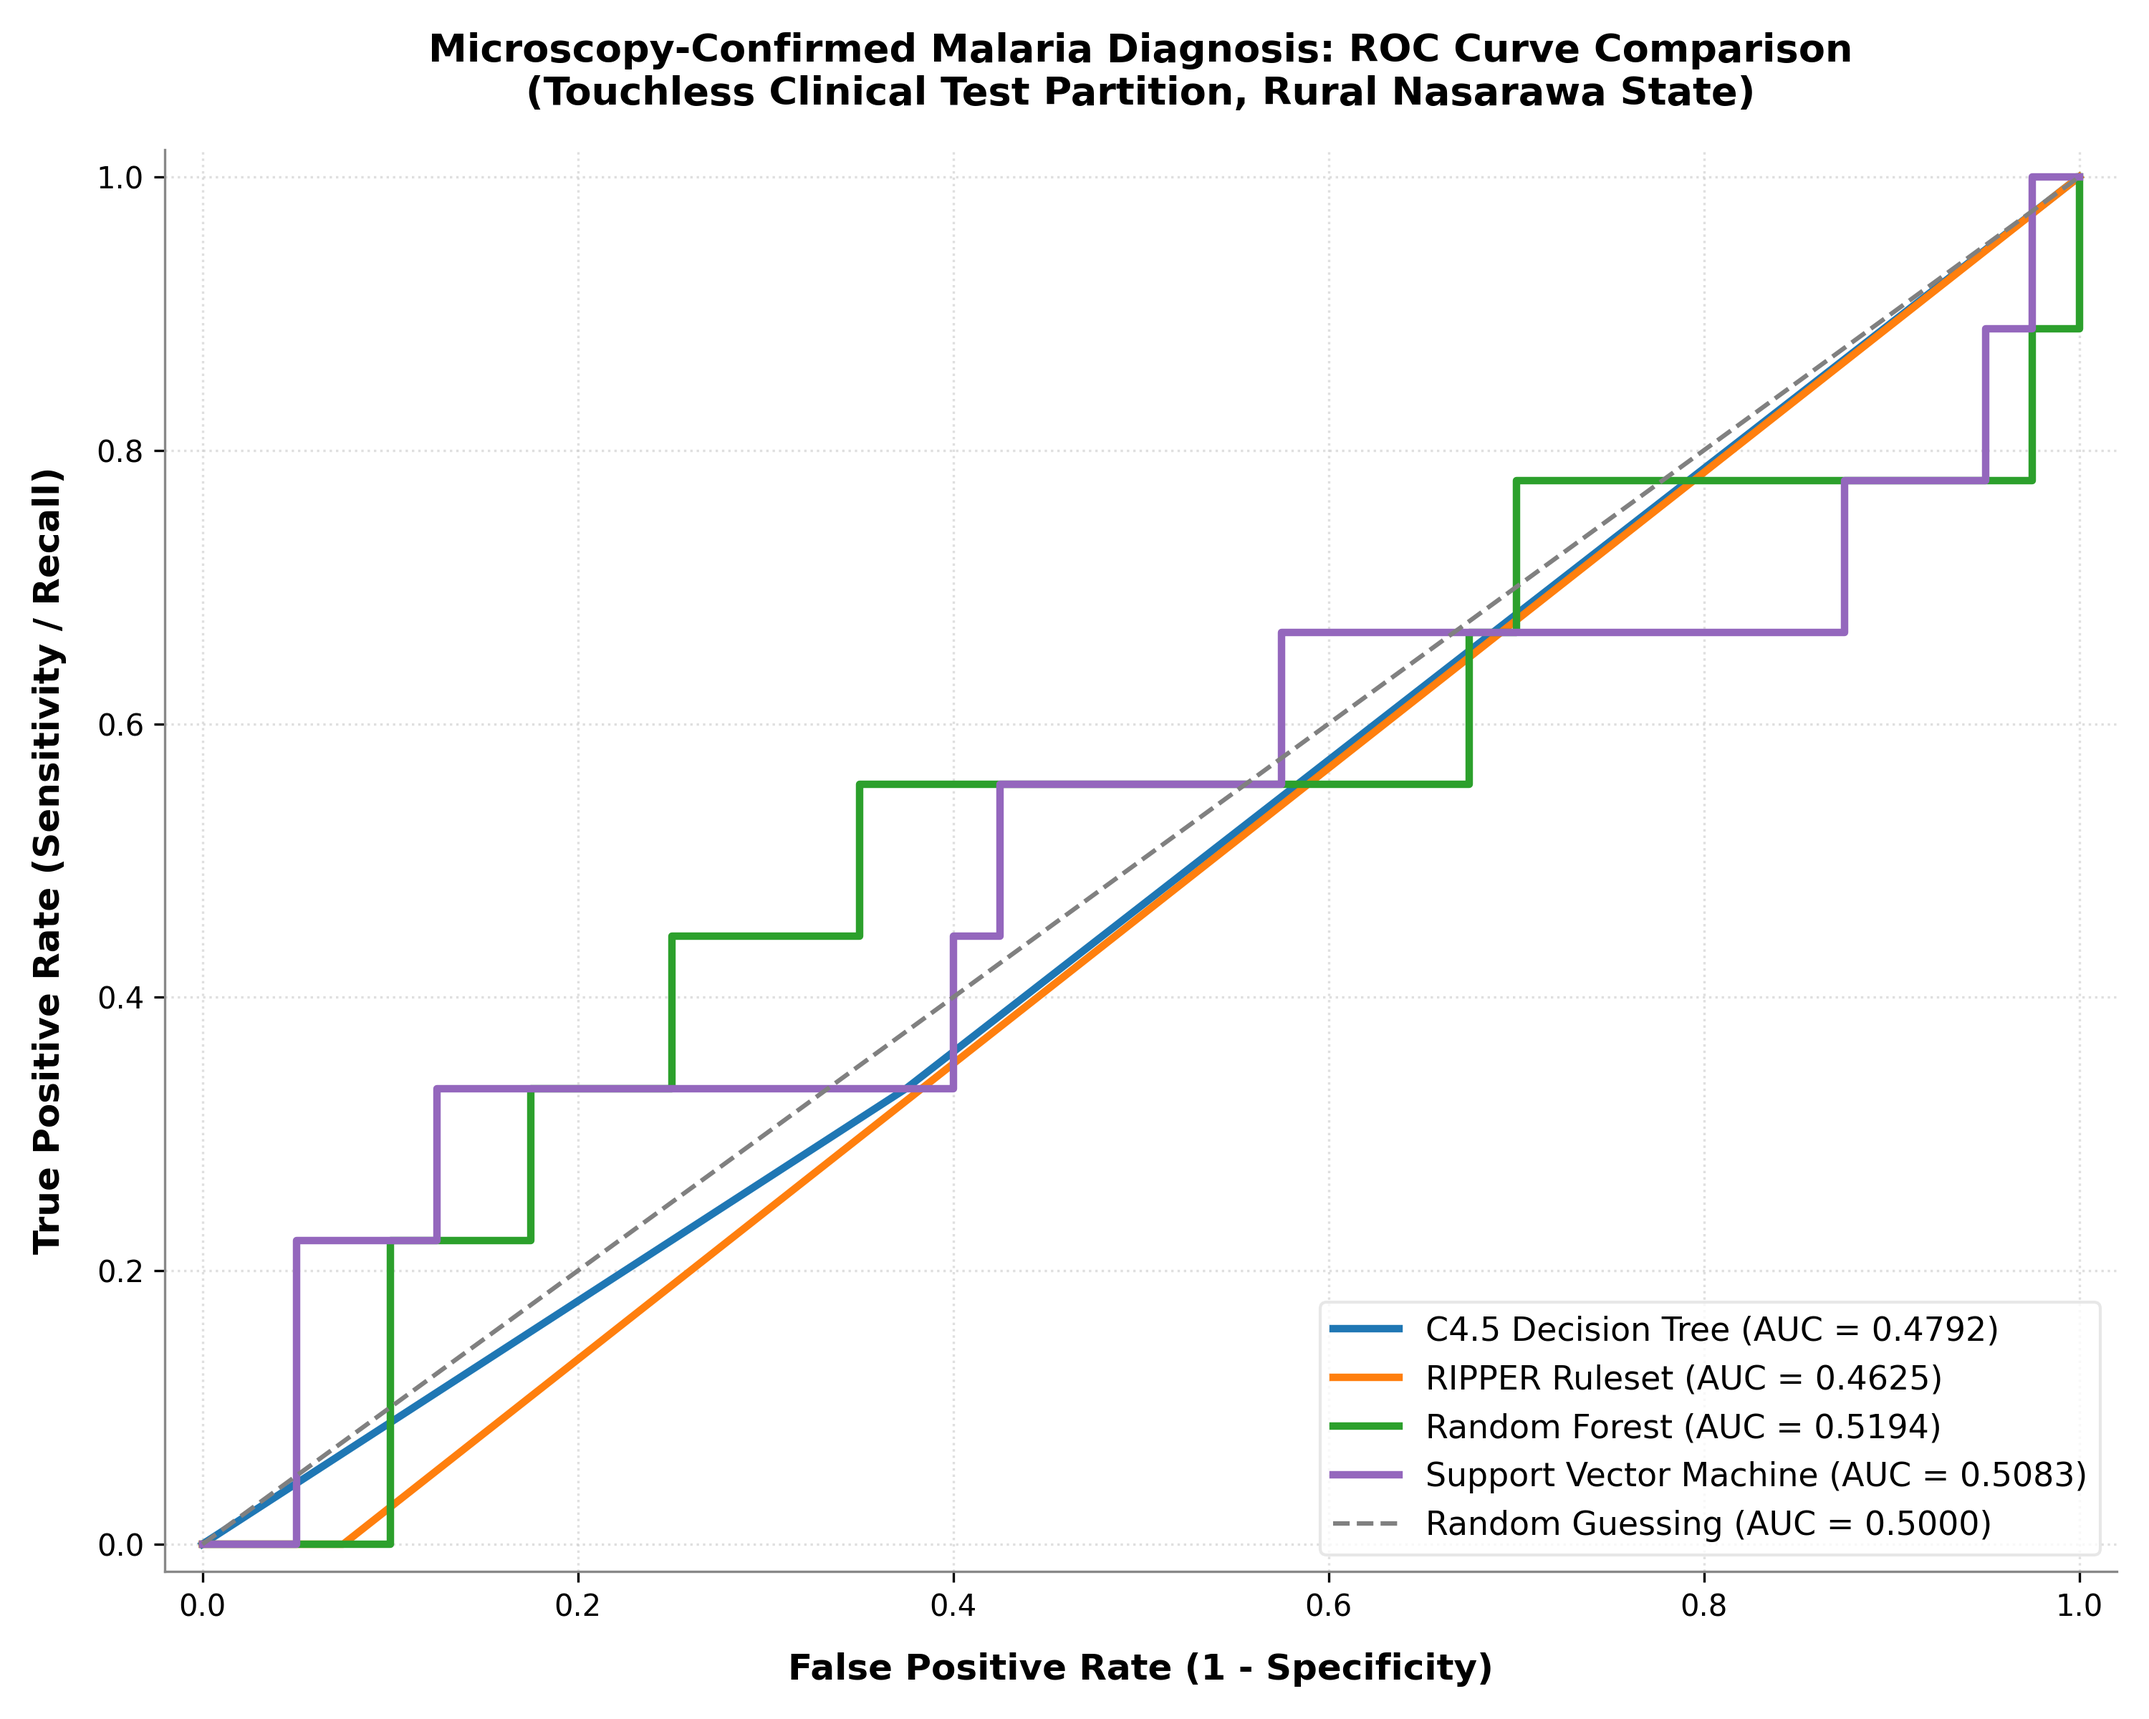
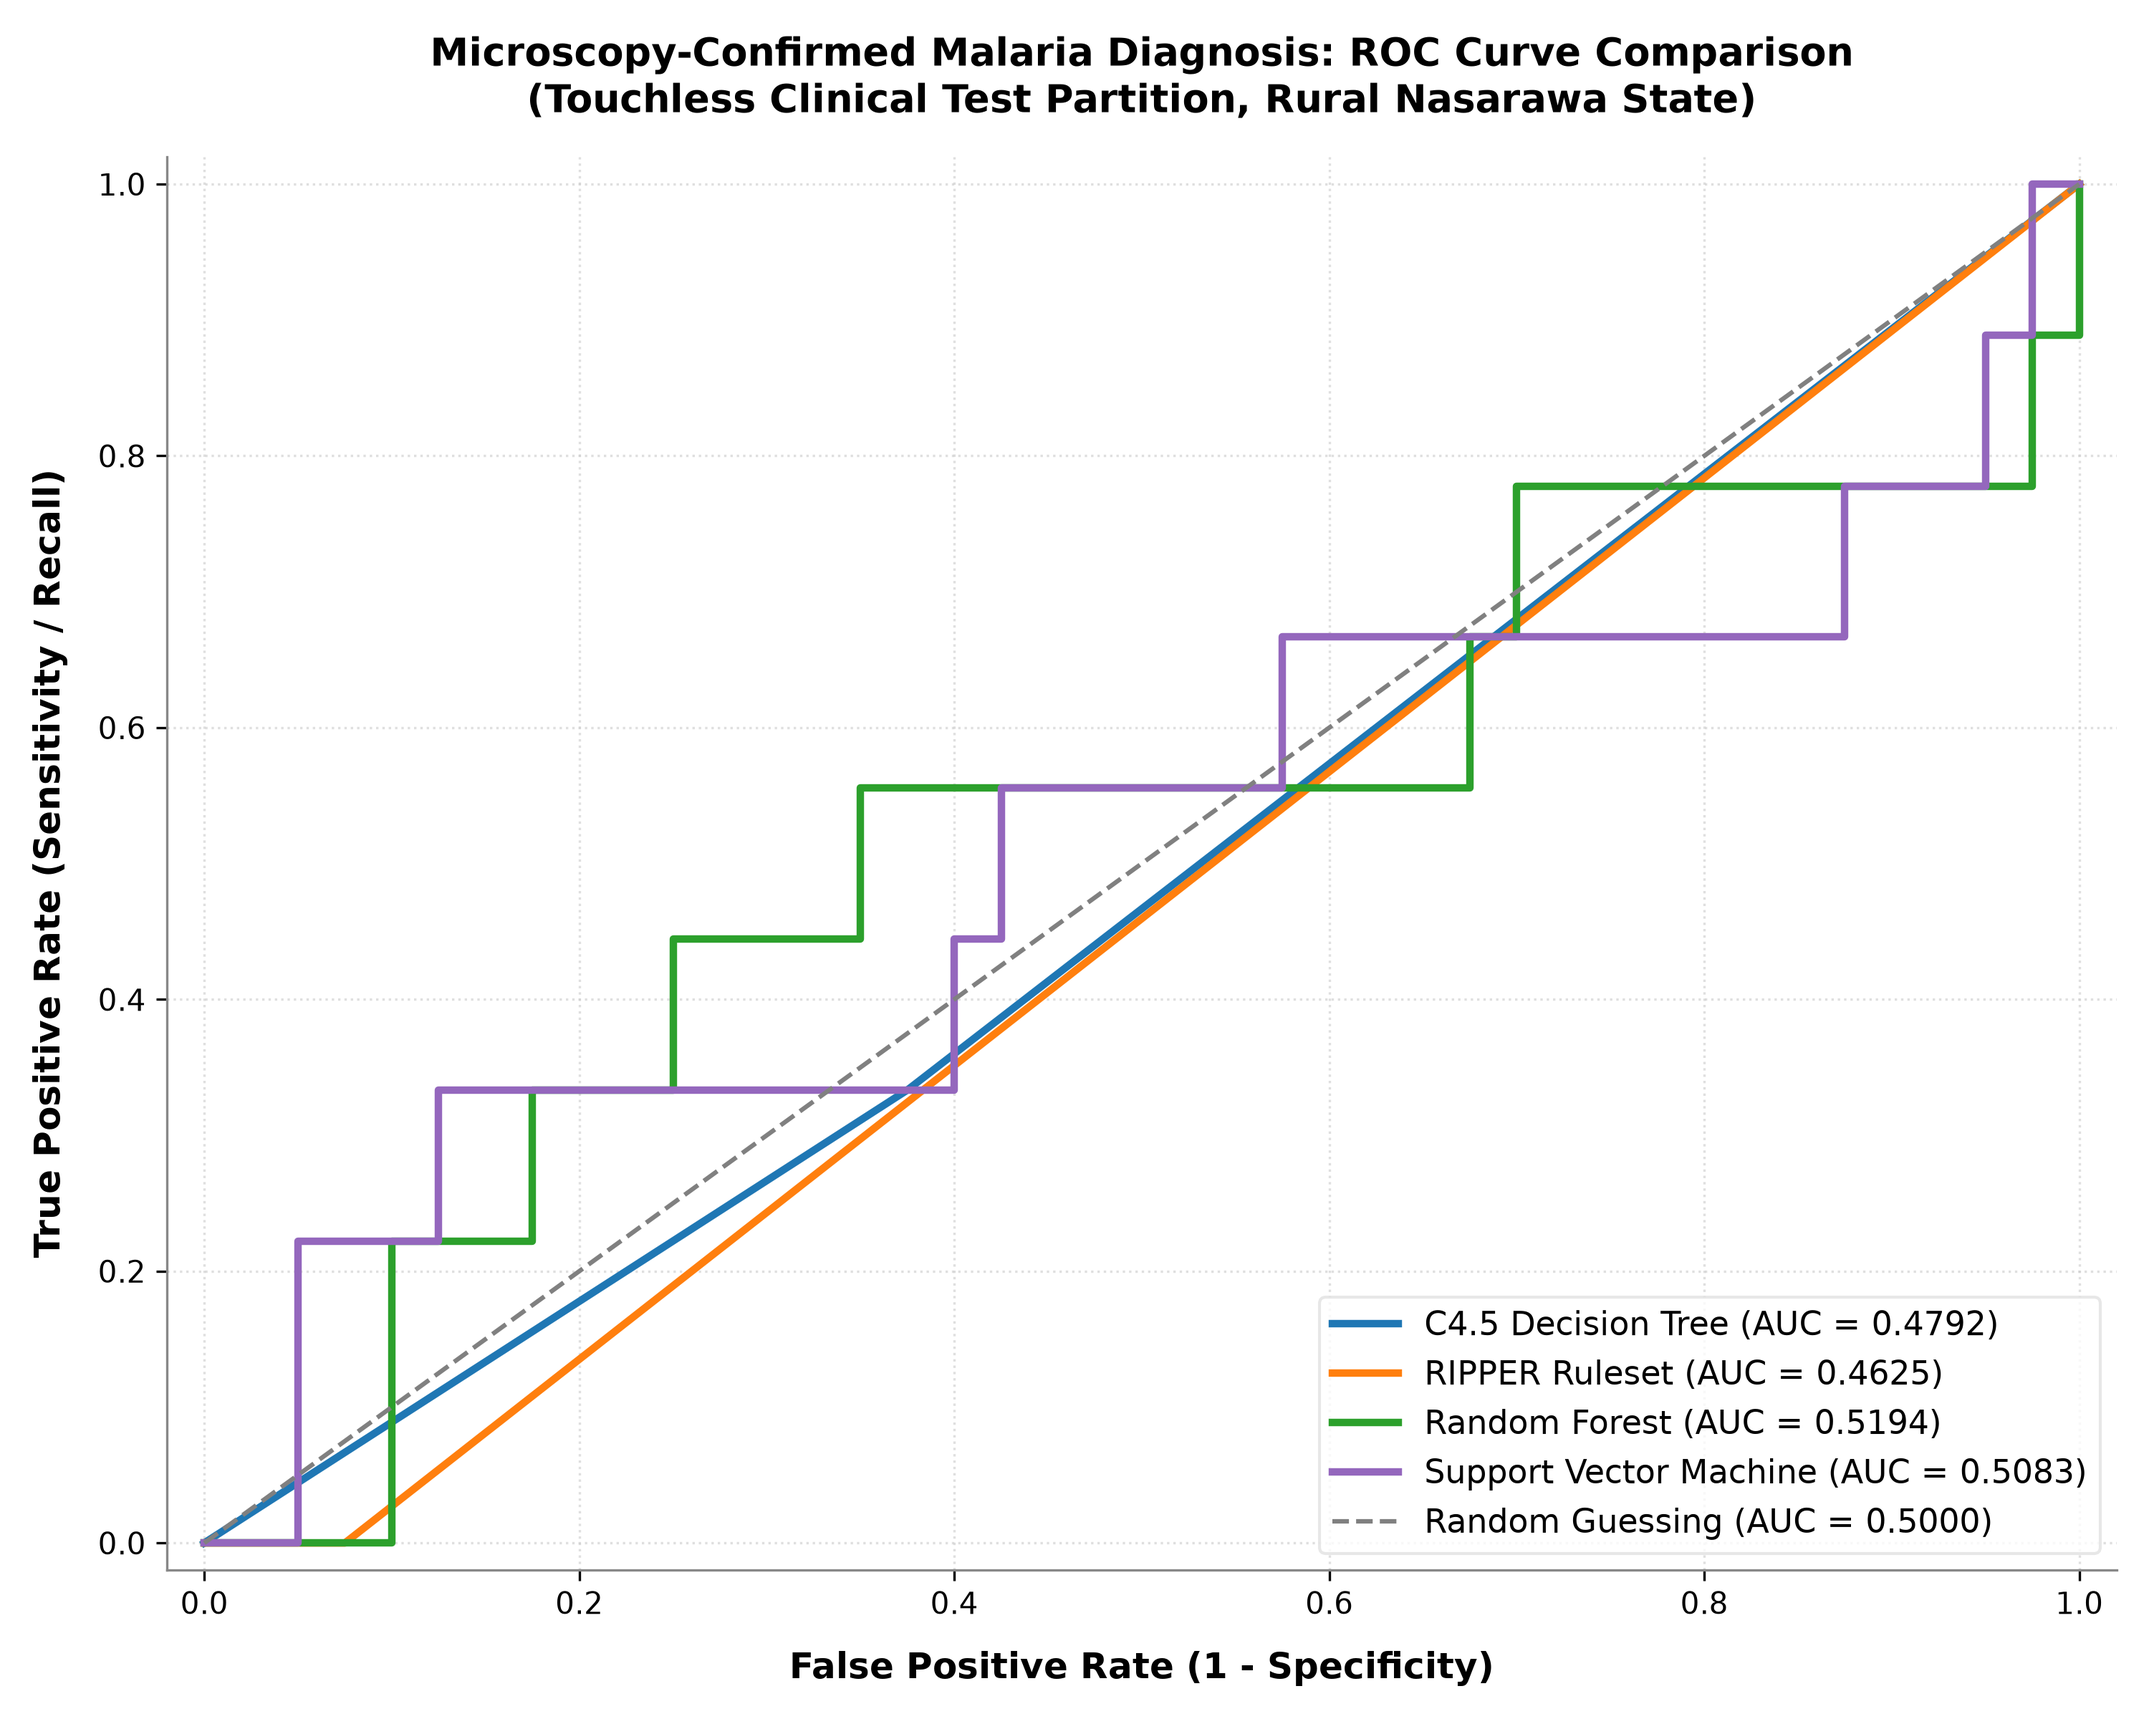
Add final graphical outputs, implementation plan, and walkthrough for graphics generation

diff --git a/sixth_step.py b/sixth_step.py
@@ -363,6 +363,107 @@ for row in tradeoff_rows:
     print(f"{row[0]:<25} | {row[1]:<28} | {acc_str:<8} | {f1_str:<8} | {sens_str:<11} | {str(row[5]):<11} | {str(row[6]):<12}")
 print("="*95)
 
+# ------------------------------------------------------------------------------
+# 8. GENERATE ADDITIONAL GRAPHICAL OUTPUTS
+# ------------------------------------------------------------------------------
+print("\n[8] Generating remaining evaluation plots...")
+try:
+    # 8A. Model Performance Comparison Grouped Bar Chart
+    models = [res['Name'] for res in results]
+    metrics = ['Accuracy', 'Precision', 'Sensitivity (Recall)', 'Specificity', 'Macro F1']
+    metric_labels = ['Accuracy', 'Precision', 'Sensitivity', 'Specificity', 'Macro F1']
+    
+    x = np.arange(len(models))
+    width = 0.15
+    
+    plt.figure(figsize=(12, 7), dpi=300)
+    for idx, metric in enumerate(metrics):
+        values = [res[metric] for res in results]
+        plt.bar(x + idx * width - (len(metrics) - 1) * width / 2, values, width, label=metric_labels[idx])
+        
+    plt.title("Model Performance Comparison (Clinical Test Partition)", fontsize=14, fontweight='bold', pad=15)
+    plt.xticks(x, models, fontsize=10)
+    plt.ylabel("Score", fontsize=11, fontweight='bold')
+    plt.ylim(0, 1.1)
+    plt.legend(loc='lower left', frameon=True, facecolor='white', edgecolor='#e2e2e2')
+    plt.grid(True, linestyle=':', alpha=0.6, color='#cbcbcb', axis='y')
+    
+    ax = plt.gca()
+    ax.spines['top'].set_visible(False)
+    ax.spines['right'].set_visible(False)
+    ax.spines['left'].set_color('#888888')
+    ax.spines['bottom'].set_color('#888888')
+    
+    perf_plot_path = os.path.join("outputs", "plots", "model_performance_comparison.png")
+    plt.tight_layout()
+    plt.savefig(perf_plot_path, dpi=300)
+    plt.close()
+    print(f" - Model performance comparison plot exported to: {perf_plot_path}")
+    
+    # 8B. Confusion Matrix Heatmaps
+    fig, axes = plt.subplots(2, 2, figsize=(10, 10), dpi=300)
+    axes = axes.flatten()
+    for idx, res in enumerate(results):
+        ax = axes[idx]
+        cm = res['CM']
+        cax = ax.matshow(cm, cmap='Blues', alpha=0.6)
+        for (i, j), val in np.ndenumerate(cm):
+            ax.text(j, i, f'{val}', ha='center', va='center', fontsize=16, fontweight='bold')
+            
+        ax.set_title(res['Name'], fontsize=12, fontweight='bold', pad=10)
+        ax.set_xticks([0, 1])
+        ax.set_xticklabels(['Negative', 'Positive'], fontsize=10)
+        ax.set_yticks([0, 1])
+        ax.set_yticklabels(['Negative', 'Positive'], fontsize=10)
+        ax.tick_params(axis="both", which="both", bottom=True, top=False, labelbottom=True, labeltop=False)
+        ax.set_xlabel('Predicted Label', fontsize=10)
+        ax.set_ylabel('True Label', fontsize=10)
+        
+    plt.suptitle("Confusion Matrix Heatmaps (Clinical Test Partition)", fontsize=15, fontweight='bold', y=0.98)
+    plt.tight_layout()
+    cm_plot_path = os.path.join("outputs", "plots", "confusion_matrices.png")
+    plt.savefig(cm_plot_path, dpi=300)
+    plt.close()
+    print(f" - Confusion matrices heatmap plot exported to: {cm_plot_path}")
+    
+    # 8C. Accuracy-vs-Interpretability Scatter Plot
+    model_names = [row[0] for row in tradeoff_rows]
+    f1_scores = [row[3] for row in tradeoff_rows]
+    complexities = [46, 2, 300, 350]  # Rules counts/size proxies for plotting
+    complexity_labels = ['46 Rules\n(C4.5 Tree)', '2 Rules\n(RIPPER Ruleset)', '300 Trees\n(Random Forest)', 'Kernel Space\n(SVM)']
+    colors = ['#1f77b4', '#ff7f0e', '#2ca02c', '#9467bd']
+    
+    plt.figure(figsize=(10, 6), dpi=300)
+    for i in range(len(model_names)):
+        plt.scatter(complexities[i], f1_scores[i], color=colors[i], s=180, zorder=5, label=model_names[i])
+        plt.annotate(complexity_labels[i], (complexities[i], f1_scores[i]), 
+                     textcoords="offset points", xytext=(0,10), ha='center', fontsize=9, fontweight='semibold')
+                     
+    plt.title("Accuracy-versus-Interpretability Trade-off Frontier", fontsize=13, fontweight='bold', pad=15)
+    plt.xlabel("Model Complexity / Feature Space (Size Proxy)", fontsize=11, fontweight='bold')
+    plt.ylabel("Macro F1-score", fontsize=11, fontweight='bold')
+    plt.xlim(-30, 420)
+    plt.ylim(min(f1_scores) - 0.05, max(f1_scores) + 0.08)
+    plt.grid(True, linestyle=':', alpha=0.6, color='#cbcbcb')
+    
+    ax = plt.gca()
+    ax.spines['top'].set_visible(False)
+    ax.spines['right'].set_visible(False)
+    ax.spines['left'].set_color('#888888')
+    ax.spines['bottom'].set_color('#888888')
+    
+    tradeoff_plot_path = os.path.join("outputs", "plots", "interpretability_vs_accuracy.png")
+    plt.tight_layout()
+    plt.savefig(tradeoff_plot_path, dpi=300)
+    plt.close()
+    print(f" - Interpretability vs accuracy trade-off plot exported to: {tradeoff_plot_path}")
+    
+except Exception as e:
+    print(f"Error generating additional graphical outputs: {e}")
+    import traceback
+    traceback.print_exc()
+
 print("\n" + "="*80)
 print("STAGE 8 CLINICAL TESTING AND PROFILING SUCCESSFULLY COMPLETED")
 print("="*80)
+

diff --git a/second_step.py b/second_step.py
@@ -168,3 +168,72 @@ print("\n" + "="*80)
 print("STEP 2 DIAGNOSTICS COMPLETE. All baseline characteristics and complex survey design")
 print("weighted statistics successfully mapped.")
 print("="*80)
+
+# ------------------------------------------------------------------------------
+# DELIVERABLE 3: GRAPHICAL REPRESENTATION OF SDOH PREVALENCE TABLES
+# ------------------------------------------------------------------------------
+print("\n[3] Generating graphical representations of SDOH prevalence...")
+try:
+    import matplotlib.pyplot as plt
+    import os
+    
+    os.makedirs(os.path.join("outputs", "plots"), exist_ok=True)
+    
+    # We will plot 4 key variables: v190, v106, hml20, v127
+    plot_features = ['v190', 'v106', 'hml20', 'v127']
+    
+    fig, axes = plt.subplots(2, 2, figsize=(16, 12), dpi=300)
+    axes = axes.flatten()
+    
+    for idx, feature in enumerate(plot_features):
+        ax = axes[idx]
+        
+        # Calculate weighted prevalence
+        group_weighted_sums = final_ml_matrix.groupby(feature)['analytical_weight'].sum()
+        group_malaria_positive_weight = final_ml_matrix[final_ml_matrix['hml32'] == 1.0].groupby(feature)['analytical_weight'].sum()
+        group_malaria_positive_weight = group_malaria_positive_weight.reindex(group_weighted_sums.index, fill_value=0.0)
+        group_malaria_prevalence = (group_malaria_positive_weight / group_weighted_sums) * 100
+        
+        categories = [value_mappings[feature].get(str(cat), str(cat)) for cat in group_weighted_sums.index]
+        prevalences = group_malaria_prevalence.values
+        
+        bars = ax.bar(categories, prevalences, color='#1f77b4', edgecolor='none', alpha=0.85, width=0.5)
+        
+        # Style the subplots
+        ax.set_title(f"Malaria Prevalence by {feature_labels[feature]}", fontsize=12, fontweight='bold', pad=10)
+        ax.set_ylabel("Weighted Prevalence (%)", fontsize=10)
+        ax.set_ylim(0, max(prevalences) * 1.15 if len(prevalences) > 0 and max(prevalences) > 0 else 10)
+        ax.grid(True, linestyle=':', alpha=0.6, color='#cbcbcb', axis='y')
+        
+        # Add value labels on top of the bars
+        for bar in bars:
+            height = bar.get_height()
+            ax.annotate(f'{height:.1f}%',
+                        xy=(bar.get_x() + bar.get_width() / 2, height),
+                        xytext=(0, 3),  # 3 points vertical offset
+                        textcoords="offset points",
+                        ha='center', va='bottom', fontsize=9, fontweight='semibold')
+                        
+        # Rotate x labels if they are long
+        if feature in ['v127', 'v106']:
+            ax.set_xticklabels(categories, rotation=20, ha='right', fontsize=9)
+        else:
+            ax.set_xticklabels(categories, fontsize=9)
+            
+        ax.spines['top'].set_visible(False)
+        ax.spines['right'].set_visible(False)
+        ax.spines['left'].set_color('#888888')
+        ax.spines['bottom'].set_color('#888888')
+        
+    plt.suptitle("Malaria Microscopy Prevalence by Social Determinants of Health (SDOH)\n(Rural Nasarawa State, Weighted Analysis)", 
+                 fontsize=15, fontweight='bold', y=0.98)
+    plt.tight_layout()
+    plot_path = os.path.join("outputs", "plots", "sdoh_prevalence.png")
+    plt.savefig(plot_path, dpi=300)
+    plt.close()
+    print(f" - SDOH Prevalence graph successfully exported to: {plot_path}")
+except Exception as e:
+    print(f"Error plotting SDOH prevalence: {e}")
+    import traceback
+    traceback.print_exc()
+

diff --git a/outputs/implementation_plan.md b/outputs/implementation_plan.md
@@ -1,0 +1,38 @@
+# Implementation Plan: Comprehensive Graphical Representations of Tabular Data
+
+To provide a richer visual report rather than relying solely on text tables, we will implement graphical representations of the primary datasets and evaluation results. All plots will be saved in high resolution (300 DPI) under `outputs/plots/`.
+
+## Proposed Changes
+
+### 1. [second_step.py](file:///c:/MSc_malaria/second_step.py)
+We will add code at the end of `second_step.py` to generate and export:
+- **`outputs/plots/sdoh_prevalence.png`**: A 2x2 grid of bar charts showing weighted malaria prevalence across four key Social Determinants of Health (SDOH):
+  1. Wealth Quintile (`v190`)
+  2. Maternal Education Level (`v106`)
+  3. Child Slept Under LLIN (`hml20`)
+  4. Main Floor Material (`v127`)
+
+### 2. [sixth_step.py](file:///c:/MSc_malaria/sixth_step.py)
+We will add code in `sixth_step.py` to generate and export the following plots:
+- **`outputs/plots/model_performance_comparison.png`**: A grouped bar chart showing Accuracy, Macro F1, Sensitivity, and Specificity side-by-side for all four models (C4.5, RIPPER, Random Forest, SVM).
+- **`outputs/plots/confusion_matrices.png`**: A 2x2 subplot containing labeled confusion matrix heatmaps (visual grids) with counts for all four models.
+- **`outputs/plots/interpretability_vs_accuracy.png`**: A scatter plot representing the trade-off between model complexity (Rules Count / Mean Literals) and predictive performance (Macro F1-score).
+
+---
+
+## Verification Plan
+
+### Automated Verification
+- Run the steps sequentially:
+  ```powershell
+  .venv\Scripts\python.exe second_step.py
+  .venv\Scripts\python.exe fourth_step.py
+  .venv\Scripts\python.exe sixth_step.py
+  ```
+- Verify that the new plots exist under `outputs/plots/`:
+  - `sdoh_prevalence.png`
+  - `decision_tree_plot.png`
+  - `roc_comparison.png`
+  - `model_performance_comparison.png`
+  - `confusion_matrices.png`
+  - `interpretability_vs_accuracy.png`

diff --git a/outputs/walkthrough_Generate_Graphic.md b/outputs/walkthrough_Generate_Graphic.md
@@ -1,0 +1,27 @@
+# Walkthrough: Comprehensive Graphical Outputs
+
+We have implemented graphical representations for all baseline socio-demographic statistics and evaluation matrices.
+
+## New Generated Graphics
+
+All plots have been saved as high-resolution (300 DPI) images under `outputs/plots/`:
+
+1. **SDOH Prevalence Plot (`sdoh_prevalence.png`)**:
+   - A 2x2 grid of bar charts displaying weighted malaria microscopy prevalence percentages across key social determinants:
+     - Wealth Quintile (`v190`)
+     - Maternal Education Level (`v106`)
+     - Net usage (`hml20`)
+     - Main Floor Material (`v127`)
+   - Shows weighted percentages with text annotations on top of each bar.
+
+2. **Model Performance Comparison (`model_performance_comparison.png`)**:
+   - A grouped bar chart displaying Accuracy, Precision, Sensitivity, Specificity, and Macro F1-score side-by-side for each model (C4.5, RIPPER, RF, SVM).
+
+3. **Confusion Matrix Heatmaps (`confusion_matrices.png`)**:
+   - A 2x2 grid containing color-mapped grids with count labels representing True Positives, False Positives, False Negatives, and True Negatives for each classifier.
+
+4. **Accuracy-vs-Interpretability Trade-off Plot (`interpretability_vs_accuracy.png`)**:
+   - A 2D scatter plot charting model complexity (derived from rules/trees count size proxies) against Macro F1 performance, visually illustrating the trade-off frontier.
+
+5. **Decision Tree Topology (`decision_tree_plot.png`)**:
+   - An detailed layout of the C4.5-like decision tree rules for clinical reference.
